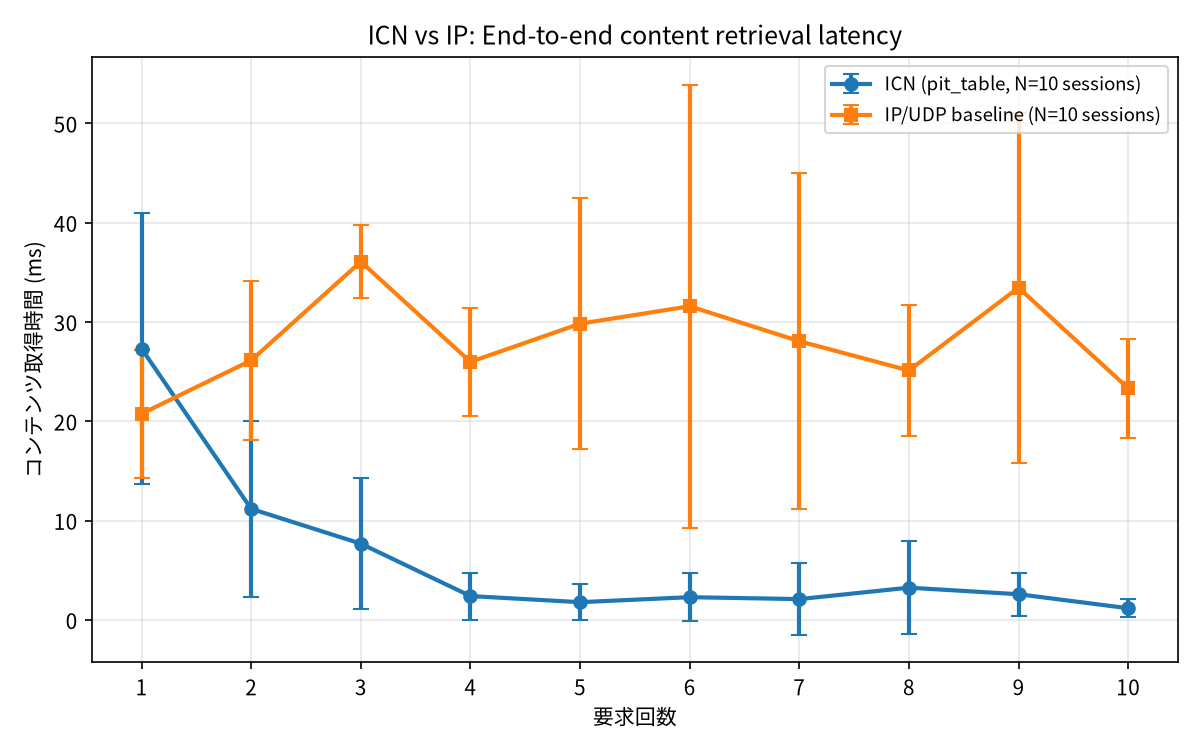
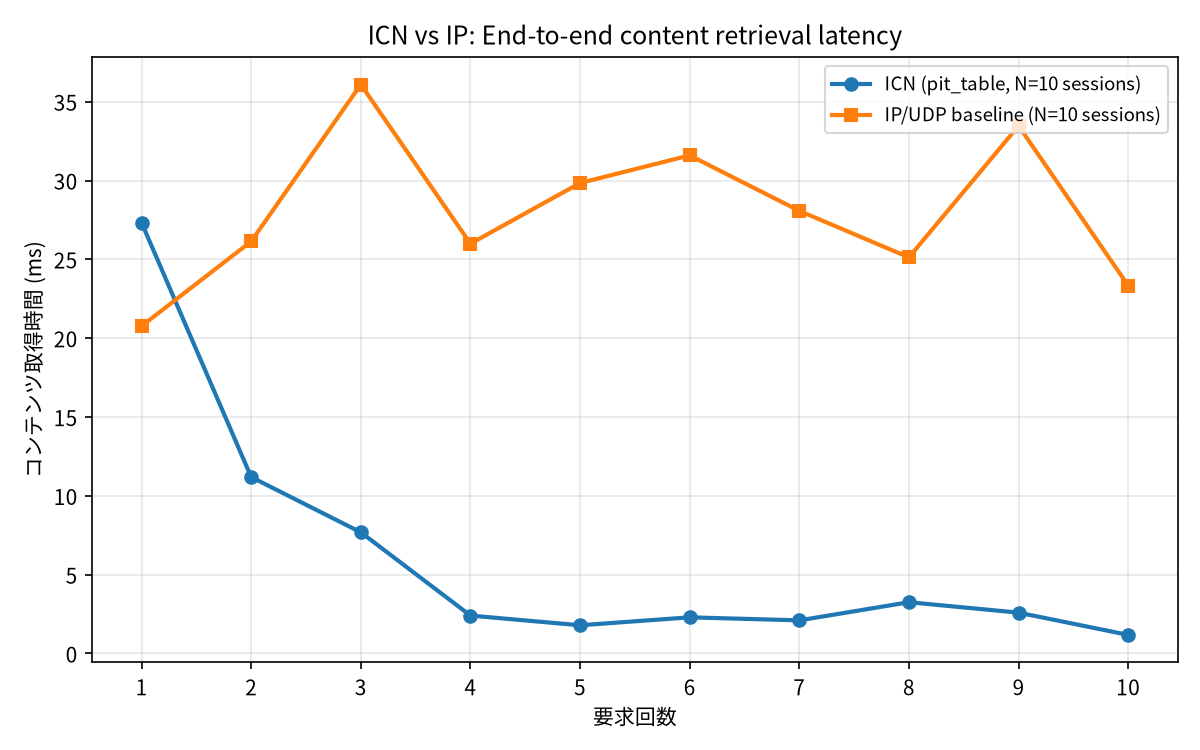
bbb

diff --git a/p4-icn-router/run_compare_graph.py b/p4-icn-router/run_compare_graph.py
@@ -163,13 +163,13 @@ def plot_graph(out_path, trials, icn_mean, icn_std, ip_mean, ip_std, sessions):
     x = list(range(1, trials + 1))
     fig, ax = plt.subplots(figsize=(8, 5))
 
-    ax.errorbar(
-        x, icn_mean, yerr=icn_std, marker="o", capsize=4, linewidth=2,
+    ax.plot(
+        x, icn_mean, marker="o", linewidth=2,
         label=f"ICN (pit_table, N={sessions} sessions)",
         color="#1f77b4",
     )
-    ax.errorbar(
-        x, ip_mean, yerr=ip_std, marker="s", capsize=4, linewidth=2,
+    ax.plot(
+        x, ip_mean, marker="s", linewidth=2,
         label=f"IP/UDP baseline (N={sessions} sessions)",
         color="#ff7f0e",
     )